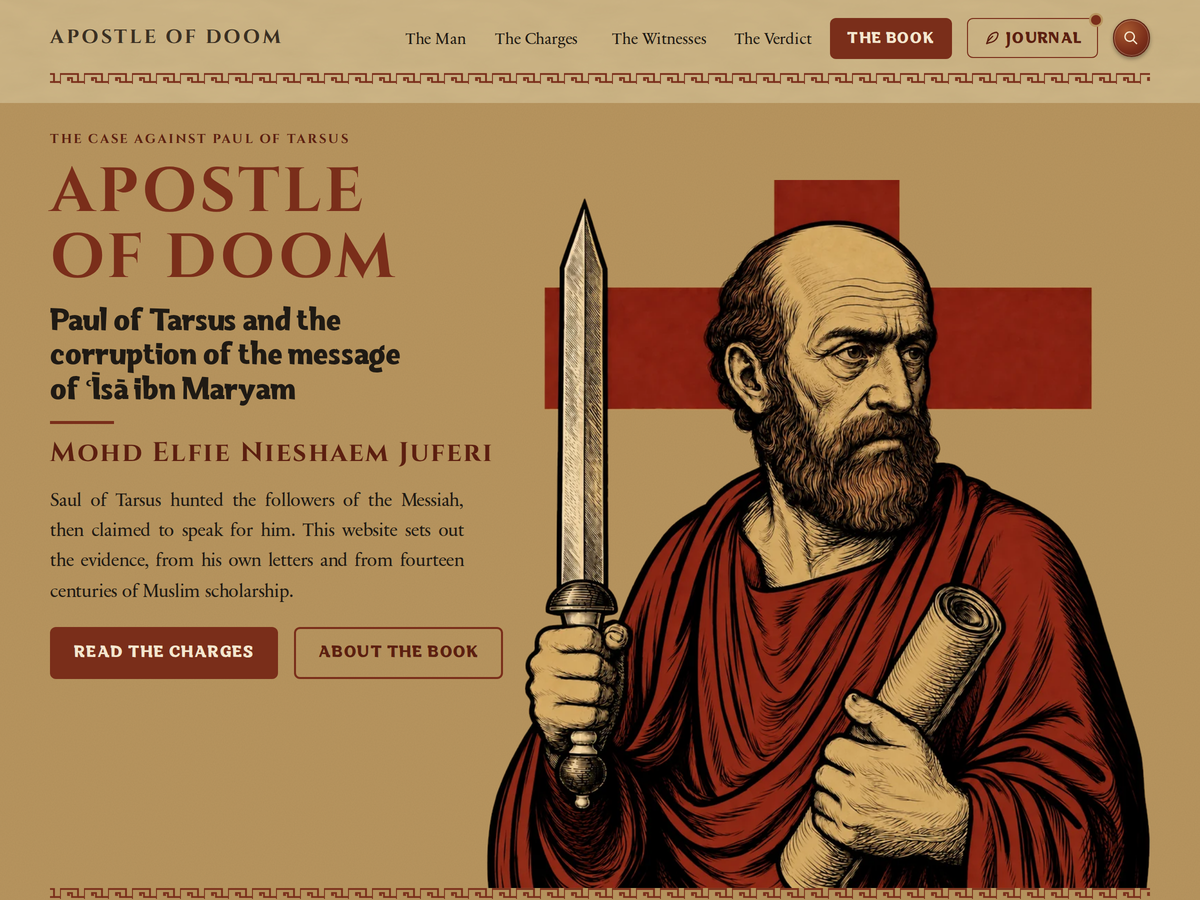
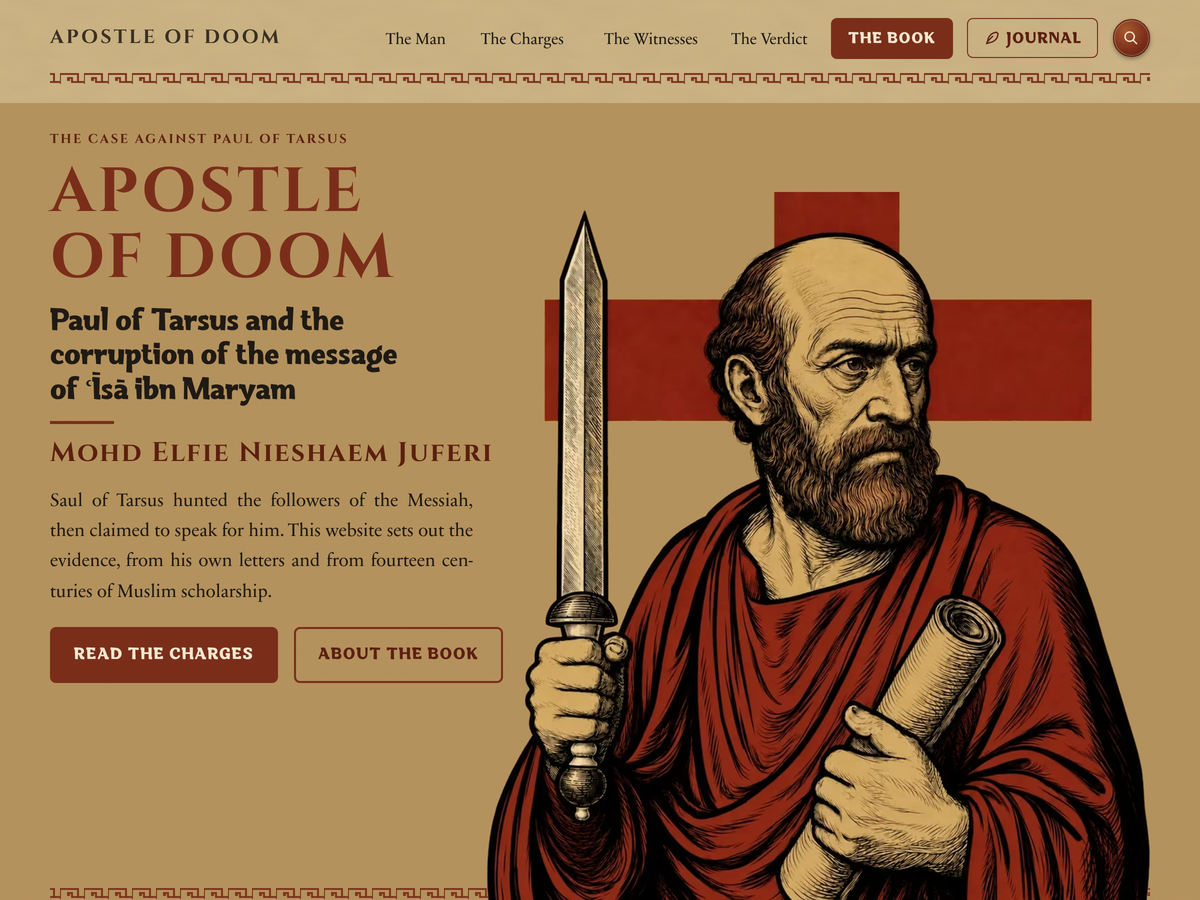
Capture the theme screenshot again from 2.62.31
Rendered from WordPress 7.1.3 with the theme's own installed content, at
1200 by 900 from double resolution, composed as the earlier captures: the
header and the hero, the portrait standing on the lower border.

Claude-Session: https://claude.ai/code/session_01QbzpptLCLdg6GUCKDusuja

diff --git a/CHANGELOG.md b/CHANGELOG.md
@@ -32,6 +32,9 @@ Findings of a review of the whole codebase, each checked against the code before
 ### Removed
 - `paulus_redirect_old_page_slugs()`, unhooked since redirects were left to the site owner.
 
+### Changed
+- `screenshot.png` is captured again from this release, at 1200 by 900 (rendered at double resolution and scaled down) from WordPress 7.1.3 with the site's content installed by the theme's own installer, composed as before: the header and the hero only, the hero given the frame's height beneath the header, its text starting close under the header's border and the portrait, at 665 pixels, standing on the lower border. The site itself is unchanged.
+
 ## [2.62.30] - 2026-10-25
 
 ### Added
